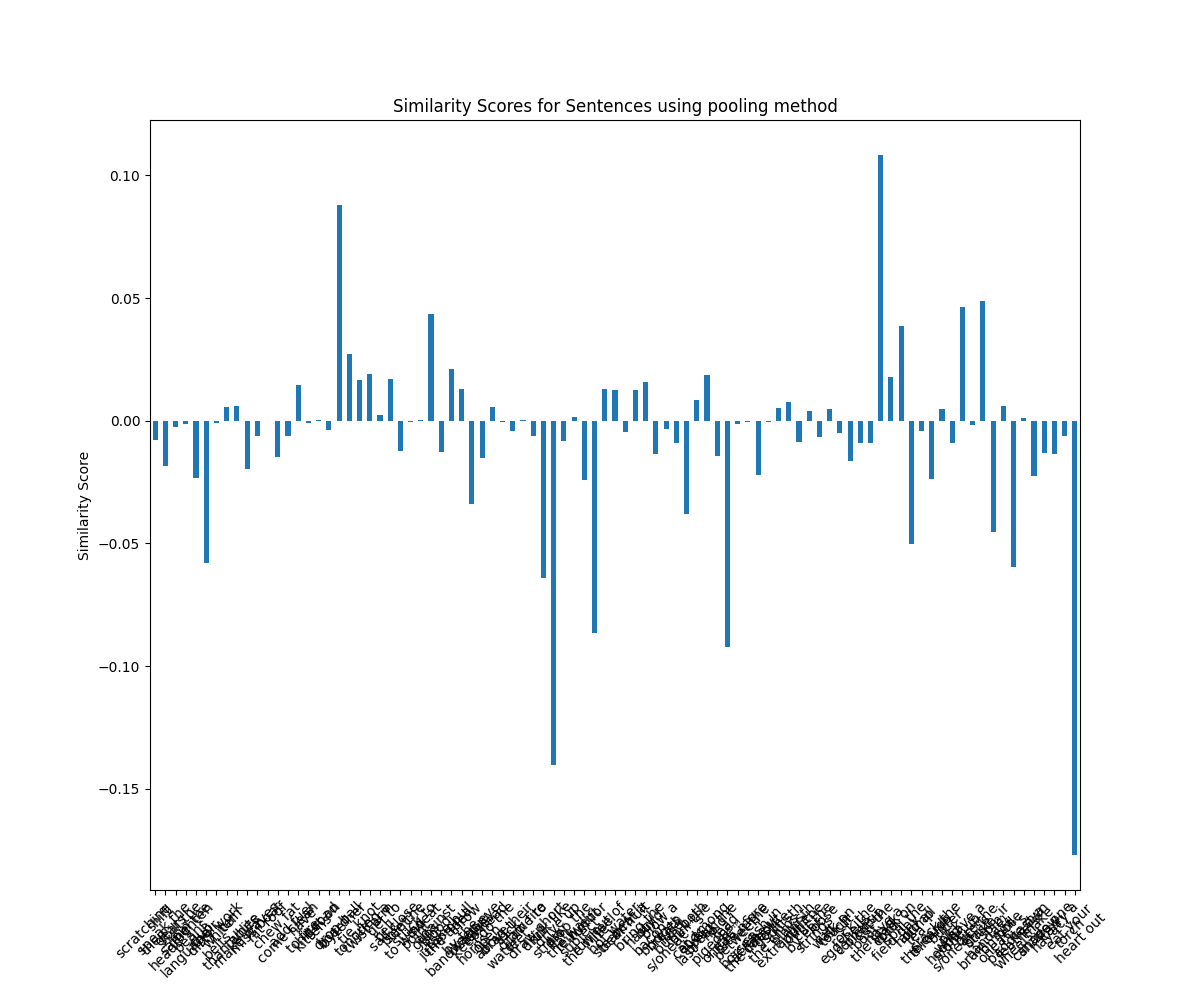
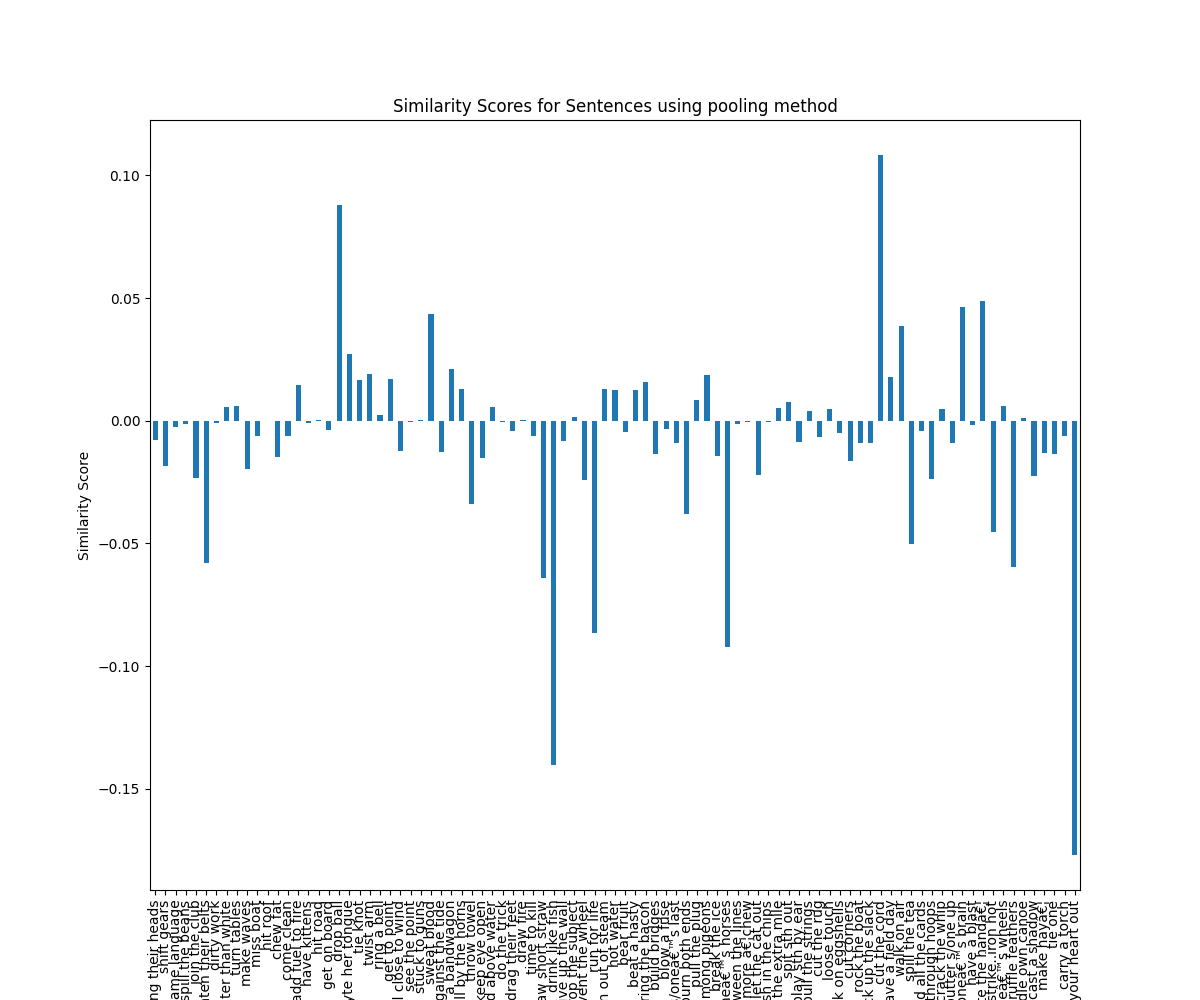
Len-Score Plot. Debug data .txt

Changed region(s): [[0.0925, 0.899, 0.925, 1.0]]

diff --git a/model.py b/model.py
@@ -93,7 +93,6 @@ def get_different_token_indeces(tokenizer, sentences, offset=1):
             indeces_different_tokens[2*pair + i] = [idx for idx in range(min_identical_range, len(tokenized_sentences[2*pair + i]) + max_identical_range)]
     return indeces_different_tokens
 
-    
 
 def get_different_tokens_average_embedding(sentence_encodings, tokenizer, sentences):
     token_indeces = get_different_token_indeces(tokenizer, sentences)
@@ -118,6 +117,24 @@ def get_sentence_similarity_scores(sentence_embeddings):
     similarity_score = cosine_similarity_non_idiomatic_meaning - cosine_similarity_idiomatic_meaning
     return similarity_score.item(), cosine_similarity_idiomatic_meaning.item(), cosine_similarity_non_idiomatic_meaning.item()
 
+def get_sentence_sim_length(tokenizer, sentences):
+    sentence_pair_sim_lengths = {}
+    diff_token_indeces = get_different_token_indeces(tokenizer, sentences)
+    tokens_s1 = tokenizer.tokenize(sentences[get_sentence_key_from_idx(0)])
+    tokens_s2 = tokenizer.tokenize(sentences[get_sentence_key_from_idx(2)])
+    sentence_pair_sim_lengths[0] = len(tokens_s1) - len(diff_token_indeces[0])
+    sentence_pair_sim_lengths[1] = len(tokens_s2) - len(diff_token_indeces[2])
+    return sentence_pair_sim_lengths
+def get_sentence_sim_length_fract(tokenizer, sentences):
+    sentence_pair_sim_lengths = {}
+    diff_token_indeces = get_different_token_indeces(tokenizer, sentences)
+    tokens_s1 = tokenizer.tokenize(sentences[get_sentence_key_from_idx(0)])
+    tokens_s2 = tokenizer.tokenize(sentences[get_sentence_key_from_idx(2)])
+    avg_diff_token_count_s1 = (len(diff_token_indeces[0]) + len(diff_token_indeces[1])) / 2
+    avg_diff_token_count_s2 = (len(diff_token_indeces[2]) + len(diff_token_indeces[3])) / 2
+    sentence_pair_sim_lengths[0] = avg_diff_token_count_s1 / (len(tokens_s1) - len(diff_token_indeces[0]))
+    sentence_pair_sim_lengths[1] = avg_diff_token_count_s2 / (len(tokens_s2) - len(diff_token_indeces[2]))
+    return sentence_pair_sim_lengths
 
 if __name__ == '__main__':
     print("Loading model...")
@@ -125,16 +142,27 @@ if __name__ == '__main__':
     print("Loading tokenizer...")
     tokenizer = BertTokenizer.from_pretrained("bert-base-uncased")
     data = load_sentences_with_names("sentence_quintuples_20_1.txt")
+    lengths_vs_embedding_val = defaultdict(dict)
+    count = 0
     for sample in data.keys():
+        sentence_pair_sim_lens = get_sentence_sim_length_fract(tokenizer, data[sample])
         sentence_encodings = get_sentence_encodings(model, tokenizer, data[sample])
         # embeddings = get_different_tokens_average_embedding(sentence_encodings, tokenizer, data[sample])
         embeddings = get_pooling_embedding(sentence_encodings)
         score, idiomatic_score, non_idiomatic_score = get_sentence_similarity_scores(embeddings)
         # score, idiomatic_score, non_idiomatic_score = get_sentence_similarity_scores(model, tokenizer, data[sample])
-        data[sample]['interaction score'] = score
-        data[sample]['idiomatic score'] = idiomatic_score
-        data[sample]['non idiomatic score'] = non_idiomatic_score
+        # data[sample]['interaction score'] = score
+        # data[sample]['idiomatic score'] = idiomatic_score
+        # data[sample]['non idiomatic score'] = non_idiomatic_score
+        lengths_vs_embedding_val['score'][count]= idiomatic_score
+        lengths_vs_embedding_val['sim length'][count] = sentence_pair_sim_lens[0]
+        count += 1
+        lengths_vs_embedding_val['score'][count] = non_idiomatic_score
+        lengths_vs_embedding_val['sim length'][count] = sentence_pair_sim_lens[1]
+        count += 1
 
-    dataframe = pd.DataFrame.from_dict(data)
-    write_dataframe_to_json(dataframe, "data_exports/similarity_scores_pooling.json")
+    # dataframe = pd.DataFrame.from_dict(data)
+    # write_dataframe_to_json(dataframe, "data_exports/similarity_scores_pooling.json")
+    df = pd.DataFrame.from_dict(lengths_vs_embedding_val)
+    write_dataframe_to_json(df, "data_exports/len_vs_score_fract.json")
     

diff --git a/evaluation.py b/evaluation.py
@@ -4,7 +4,23 @@ import textwrap
 
 
 
-if __name__ == '__main__':
+def print_len_vs_score():
+    f = open("data_exports/len_vs_score.json")
+    df = pd.read_json(f, orient='split')
+    # print(df)
+    df.plot.scatter('sim length', 'score')
+    plt.show()
+
+def print_len_vs_score_fract():
+    f = open("data_exports/len_vs_score_fract.json")
+    df = pd.read_json(f, orient='split')
+    # file = open("data_exports/df_print", "w")
+    # file.write(df.to_string())
+    df.plot.scatter('sim length', 'score')
+    plt.show()
+
+
+def print_similarity_scores():
     sim_pooling = open("data_exports/similarity_scores_pooling.json")
     sim_tokens_avg = open("data_exports/similarity_scores_token_avg.json")
     # with open("similarity_scores_pooling.json") as f:
@@ -25,53 +41,15 @@ if __name__ == '__main__':
     wrapped_labels = [textwrap.fill(label, width=10) for label in x_labels]
     plt.title('Similarity Scores for Sentences using pooling method')
     plt.ylabel('Similarity Score')
-    plt.xticks(range(len(wrapped_labels)), wrapped_labels, rotation=45)
+    # plt.xticks(range(len(wrapped_labels)), wrapped_labels, rotation=45)
     plt.savefig('similarity_scores_pool.png')
 
     interaction_scores_token.plot(kind='bar', legend=False, figsize=(12, 10))
     plt.title('Similarity Scores for Sentences using only different tokens')
     plt.ylabel('Similarity Score')
-    plt.xticks(range(len(wrapped_labels)), wrapped_labels, rotation=45)
+    # plt.xticks(range(len(wrapped_labels)), wrapped_labels, rotation=45)
     plt.savefig('similarity_scores_tokens.png')
 
+if __name__ == '__main__':
+    print_len_vs_score_fract()
 
-# import pandas as pd
-# import matplotlib.pyplot as plt
-# import textwrap
-
-# # Open the JSON files
-# sim_pooling = open("data_exports/similarity_scores_pooling.json")
-# sim_tokens_avg = open("data_exports/similarity_scores_tokens.json")
-
-# # Read the JSON files into DataFrames
-# df_pool = pd.read_json(sim_pooling, orient='split')
-# df_token = pd.read_json(sim_tokens_avg, orient='split')
-
-# # Extract interaction scores from DataFrames
-# interaction_scores_pool = df_pool.loc["interaction score"]
-# interaction_scores_token = df_token.loc["interaction score"]
-
-# # Extract x-axis labels
-# x_labels = df_pool.columns
-
-# # Plotting the bar charts side by side
-# fig, axes = plt.subplots(nrows=1, ncols=2, figsize=(18, 8))
-
-# # Plot for similarity_scores_only_pool.png
-# axes[0].bar(range(len(x_labels)), interaction_scores_pool, color='blue')
-# axes[0].set_title('Similarity Scores for Sentences (Pooling)')
-# axes[0].set_ylabel('Similarity Score')
-# axes[0].set_xticks(range(len(x_labels)))
-# axes[0].set_xticklabels([textwrap.fill(label, width=10) for label in x_labels], rotation=45)
-
-# # Plot for similarity_scores_only_tokens.png
-# axes[1].bar(range(len(x_labels)), interaction_scores_token, color='green')
-# axes[1].set_title('Similarity Scores for Sentences (Tokens)')
-# axes[1].set_ylabel('Similarity Score')
-# axes[1].set_xticks(range(len(x_labels)))
-# axes[1].set_xticklabels([textwrap.fill(label, width=10) for label in x_labels], rotation=45)
-
-# # Adjust layout and save the plot
-# plt.tight_layout()
-# plt.savefig('evaluation_exports/similarity_scores_combined.png')
-# plt.show()
